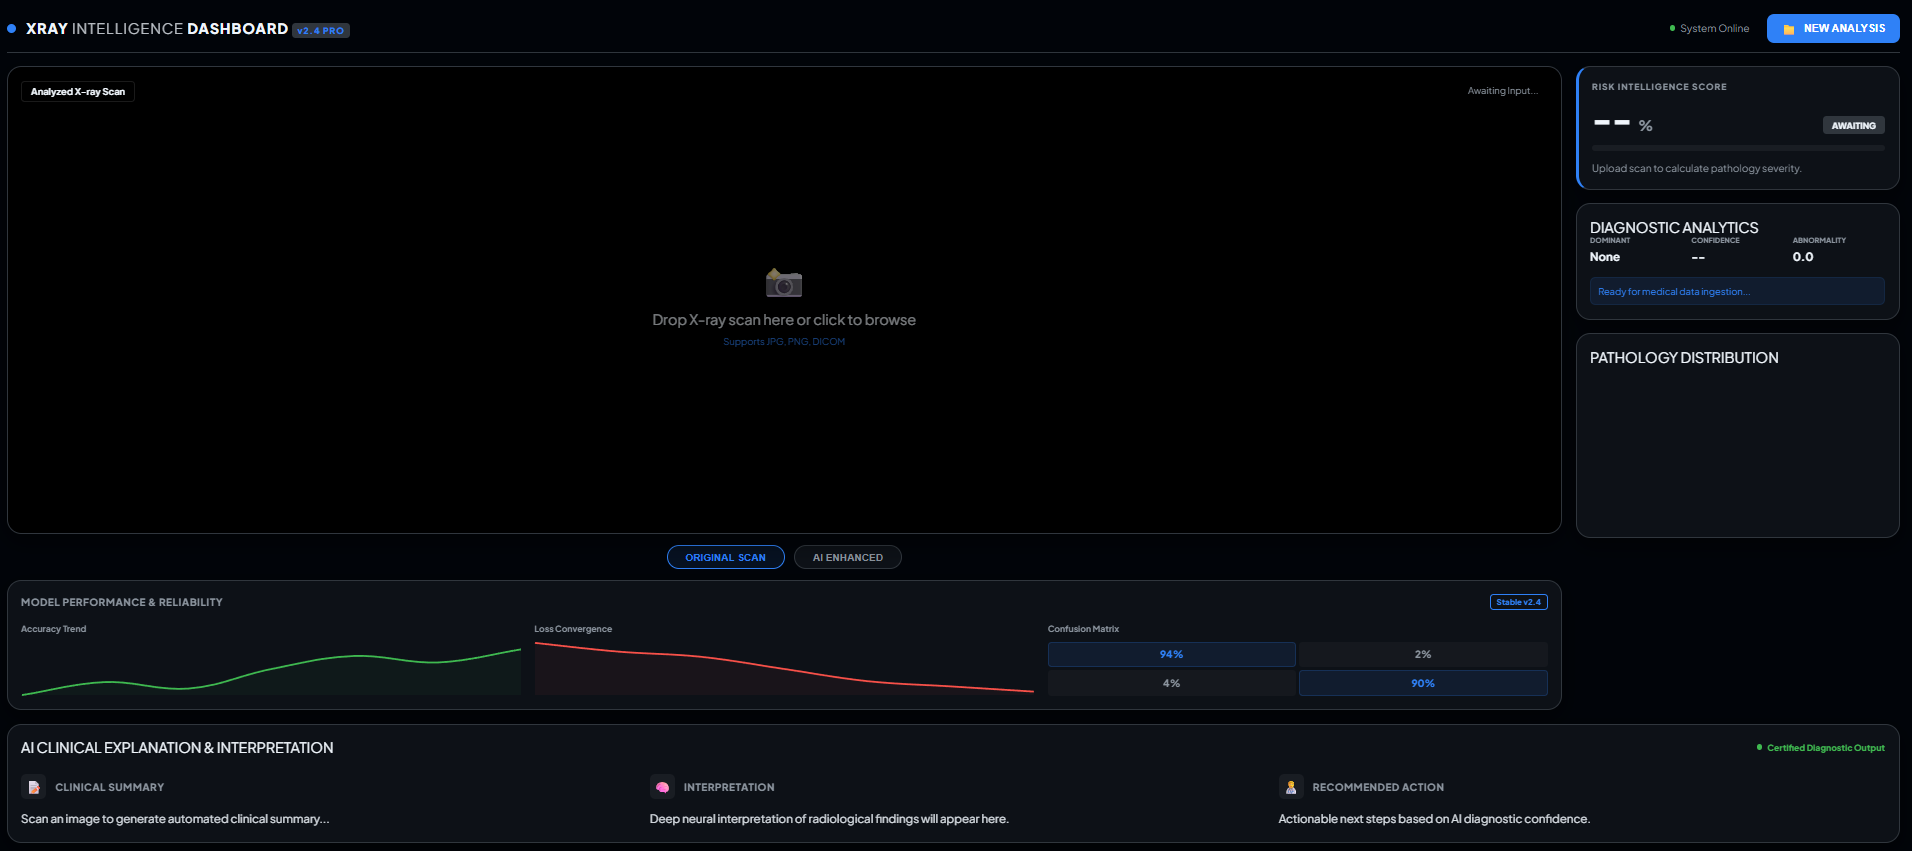
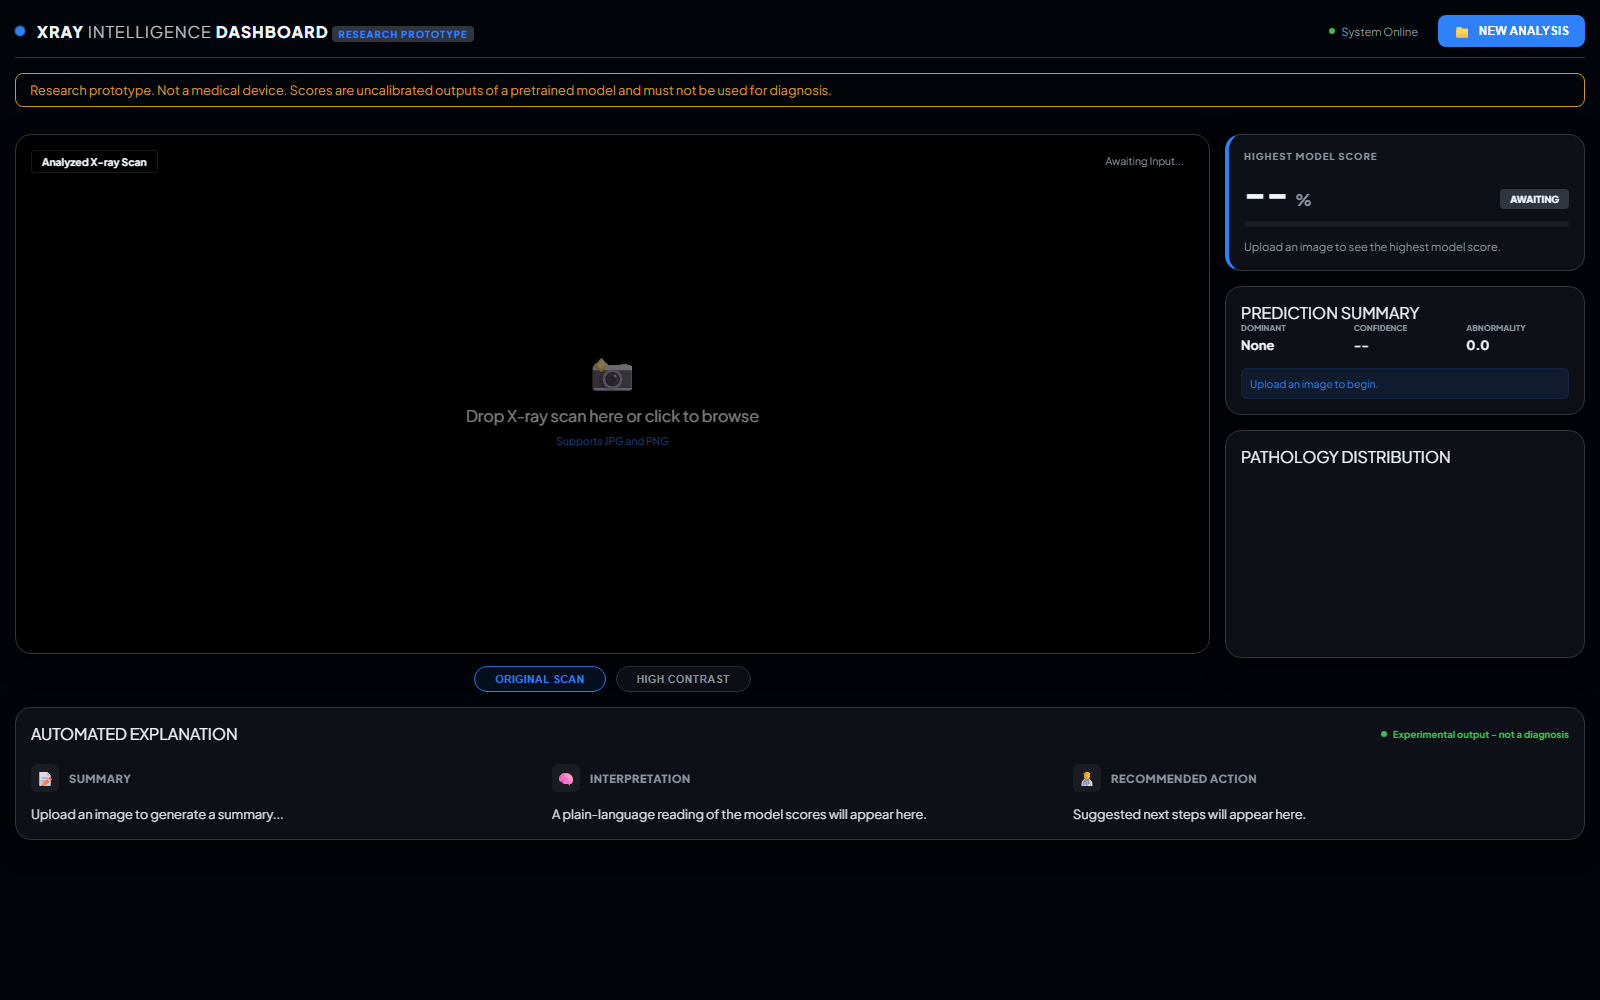
Remove hard-coded performance panel and diagnostic claims from the UI
The accuracy and loss curves and the confusion matrix were static numbers, not measurements of the model. Also drops the Certified Diagnostic Output and PRO labels, the unsupported DICOM hint, and wording that presented scores as clinical findings. Adds a research-use notice and refreshes the dashboard screenshot.

diff --git a/templates/index.html b/templates/index.html
@@ -3,10 +3,10 @@
 <head>
     <meta charset="UTF-8">
     <meta name="viewport" content="width=device-width, initial-scale=1.0">
-    <title>XRAY Intelligence Dashboard | Professional AI Diagnostics</title>
+    <title>Chest X-ray Analysis Dashboard (research prototype)</title>
     <link rel="stylesheet" href="/static/style.css">
     <link href="https://fonts.googleapis.com/css2?family=Plus+Jakarta+Sans:wght@300;400;500;600;700;800&display=swap" rel="stylesheet">
-    <script src="https://cdn.jsdelivr.net/npm/chart.js"></script>
+    <script src="https://cdn.jsdelivr.net/npm/chart.js@4.4.7"></script>
 </head>
 <body>
 
@@ -15,7 +15,7 @@
     <header class="top-bar">
         <div class="brand">
             <span class="pulse-icon"></span>
-            <h1>XRAY <span class="thin">INTELLIGENCE</span> DASHBOARD <span class="v-tag">v2.4 PRO</span></h1>
+            <h1>XRAY <span class="thin">INTELLIGENCE</span> DASHBOARD <span class="v-tag">RESEARCH PROTOTYPE</span></h1>
         </div>
         <div class="actions">
             <div class="system-status">
@@ -27,6 +27,8 @@
             <input type="file" id="fileInput" accept="image/*" hidden>
         </div>
     </header>
+
+    <div class="research-notice">Research prototype. Not a medical device. Scores are uncalibrated outputs of a pretrained model and must not be used for diagnosis.</div>
 
     <main class="main-content">
         <!-- Left Panel: Large Image -->
@@ -40,7 +42,7 @@
                     <div class="upload-area" id="dropZone">
                         <div class="upload-icon">📸</div>
                         <p>Drop X-ray scan here or click to browse</p>
-                        <span class="hint">Supports JPG, PNG, DICOM</span>
+                        <span class="hint">Supports JPG and PNG</span>
                     </div>
                 </div>
                 <div id="previewWrapper" class="preview-wrapper hidden">
@@ -54,7 +56,7 @@
                         <div class="loading-steps">
                             <span id="step1">Extracting Features...</span>
                             <span id="step2" class="dim">Neural Mapping...</span>
-                            <span id="step3" class="dim">Clinical Matching...</span>
+                            <span id="step3" class="dim">Summarising...</span>
                         </div>
                     </div>
                 </div>
@@ -62,34 +64,7 @@
             
             <div class="image-controls">
                 <button class="btn-toggle active" data-view="original">ORIGINAL SCAN</button>
-                <button class="btn-toggle" data-view="analysis">AI ENHANCED</button>
-            </div>
-
-            <!-- New Section: Model Performance (Portfolio) -->
-            <div class="performance-section card">
-                <div class="card-title-row">
-                    <h3>MODEL PERFORMANCE & RELIABILITY</h3>
-                    <span class="badge-outline">Stable v2.4</span>
-                </div>
-                <div class="performance-grid">
-                    <div class="perf-item">
-                        <label>Accuracy Trend</label>
-                        <div class="mini-chart"><canvas id="accuracyChart"></canvas></div>
-                    </div>
-                    <div class="perf-item">
-                        <label>Loss Convergence</label>
-                        <div class="mini-chart"><canvas id="lossChart"></canvas></div>
-                    </div>
-                    <div class="perf-item">
-                        <label>Confusion Matrix</label>
-                        <div class="matrix-viz">
-                            <div class="m-cell active" title="TP">94%</div>
-                            <div class="m-cell" title="FP">2%</div>
-                            <div class="m-cell" title="FN">4%</div>
-                            <div class="m-cell active" title="TN">90%</div>
-                        </div>
-                    </div>
-                </div>
+                <button class="btn-toggle" data-view="analysis">HIGH CONTRAST</button>
             </div>
         </section>
 
@@ -97,7 +72,7 @@
         <aside class="metrics-panel">
             <!-- Risk Intelligence Card -->
             <div class="card risk-card highlight-card">
-                <div class="card-label">RISK INTELLIGENCE SCORE</div>
+                <div class="card-label">HIGHEST MODEL SCORE</div>
                 <div class="risk-main">
                     <div class="risk-display">
                         <span id="riskValue">--</span>
@@ -108,12 +83,12 @@
                 <div class="progress-container">
                     <div id="riskProgress" class="progress-bar" style="width: 0%"></div>
                 </div>
-                <p id="riskExplanation" class="risk-explanation">Upload scan to calculate pathology severity.</p>
+                <p id="riskExplanation" class="risk-explanation">Upload an image to see the highest model score.</p>
             </div>
 
             <!-- Advanced Analytics Card (New) -->
             <div class="card analytics-card">
-                <div class="card-title">DIAGNOSTIC ANALYTICS</div>
+                <div class="card-title">PREDICTION SUMMARY</div>
                 <div class="analytics-metrics">
                     <div class="a-metric">
                         <span class="a-label">Dominant</span>
@@ -128,7 +103,7 @@
                         <span class="a-value" id="mAbnormality">0.0</span>
                     </div>
                 </div>
-                <div class="a-summary" id="aSummaryText">Ready for medical data ingestion...</div>
+                <div class="a-summary" id="aSummaryText">Upload an image to begin.</div>
             </div>
 
             <!-- Graph Card: Top Predictions (Improved) -->
@@ -148,30 +123,30 @@
     <footer class="bottom-section">
         <div class="card explanation-card">
             <div class="card-header-row">
-                <div class="card-title">AI CLINICAL EXPLANATION & INTERPRETATION</div>
-                <div class="clinical-sign">Certified Diagnostic Output</div>
+                <div class="card-title">AUTOMATED EXPLANATION</div>
+                <div class="clinical-sign">Experimental output - not a diagnosis</div>
             </div>
             <div class="explanation-grid">
                 <div class="exp-block">
                     <div class="exp-header">
                         <span class="exp-icon summary">📝</span>
-                        <h4>CLINICAL SUMMARY</h4>
+                        <h4>SUMMARY</h4>
                     </div>
-                    <div class="exp-content" id="expSummary">Scan an image to generate automated clinical summary...</div>
+                    <div class="exp-content" id="expSummary">Upload an image to generate a summary...</div>
                 </div>
                 <div class="exp-block">
                     <div class="exp-header">
                         <span class="exp-icon meaning">🧠</span>
                         <h4>INTERPRETATION</h4>
                     </div>
-                    <div class="exp-content" id="expMeaning">Deep neural interpretation of radiological findings will appear here.</div>
+                    <div class="exp-content" id="expMeaning">A plain-language reading of the model scores will appear here.</div>
                 </div>
                 <div class="exp-block">
                     <div class="exp-header">
                         <span class="exp-icon recommendation">👨⚕</span>
                         <h4>RECOMMENDED ACTION</h4>
                     </div>
-                    <div class="exp-content" id="expRecommendation">Actionable next steps based on AI diagnostic confidence.</div>
+                    <div class="exp-content" id="expRecommendation">Suggested next steps will appear here.</div>
                 </div>
             </div>
         </div>

diff --git a/static/script.js b/static/script.js
@@ -1,9 +1,6 @@
 let predictionChart;
-let accuracyChart;
-let lossChart;
 
 document.addEventListener('DOMContentLoaded', () => {
-    initPerformanceCharts();
     setupEventListeners();
 });
 
@@ -83,7 +80,7 @@ async function analyzeXray(file) {
         }
     } catch (err) {
         console.error(err);
-        alert('Diagnostic System Offline');
+        alert('Could not reach the analysis server.');
     } finally {
         setTimeout(() => {
             loading.classList.add('hidden');
@@ -112,20 +109,20 @@ function updateDashboard(data) {
     metricsPanel.classList.remove('critical', 'attention', 'normal');
     if (data.status === 'CRITICAL') {
         metricsPanel.classList.add('critical');
-        riskExplanation.innerText = "High-confidence detection of critical pathology. Immediate clinical intervention required.";
+        riskExplanation.innerText = "The highest model score is above 70%. This is a model output, not a diagnosis: a qualified clinician must review the image.";
     } else if (data.status === 'NEEDS ATTENTION') {
         metricsPanel.classList.add('attention');
-        riskExplanation.innerText = "Secondary indicators detected. Correlation with patient history and symptoms advised.";
+        riskExplanation.innerText = "The highest model score is between 40% and 70%. This is a model output, not a diagnosis.";
     } else {
         metricsPanel.classList.add('normal');
-        riskExplanation.innerText = "Neural analysis indicates physiological baseline within normal radiological limits.";
+        riskExplanation.innerText = "No pathology score is above 40%. This does not rule out disease.";
     }
 
     // Analytics Card
     document.getElementById('dominantCond').innerText = topPred.disease;
     document.getElementById('confConsistency').innerText = riskScore > 85 ? "High" : riskScore > 60 ? "Moderate" : "Low";
     document.getElementById('mAbnormality').innerText = (riskScore / 10).toFixed(1);
-    document.getElementById('aSummaryText').innerText = `AI model has ${riskScore}% confidence in ${topPred.disease} detection. Findings are consistent with radiological patterns.`;
+    document.getElementById('aSummaryText').innerText = `Highest model score: ${topPred.disease} at ${riskScore}%. Scores are uncalibrated outputs of a pretrained model.`;
 
     // Predictions List & Chart
     updatePredictionsUI(data);
@@ -188,36 +185,5 @@ function updateChart(labels, scores) {
                 y: { grid: { display: false }, ticks: { color: '#f0f6fc', font: { size: 9 } } }
             }
         }
-    });
-}
-
-function initPerformanceCharts() {
-    const ctxAcc = document.getElementById('accuracyChart').getContext('2d');
-    const ctxLoss = document.getElementById('lossChart').getContext('2d');
-
-    const commonOptions = {
-        responsive: true,
-        maintainAspectRatio: false,
-        plugins: { legend: { display: false } },
-        scales: { x: { display: false }, y: { display: false } },
-        elements: { point: { radius: 0 }, line: { tension: 0.4, borderWidth: 2 } }
-    };
-
-    accuracyChart = new Chart(ctxAcc, {
-        type: 'line',
-        data: {
-            labels: [1,2,3,4,5,6,7],
-            datasets: [{ data: [88, 90, 89, 92, 94, 93, 95], borderColor: '#3fb950', fill: true, backgroundColor: 'rgba(63, 185, 80, 0.05)' }]
-        },
-        options: commonOptions
-    });
-
-    lossChart = new Chart(ctxLoss, {
-        type: 'line',
-        data: {
-            labels: [1,2,3,4,5,6,7],
-            datasets: [{ data: [0.4, 0.35, 0.32, 0.25, 0.18, 0.15, 0.12], borderColor: '#f85149', fill: true, backgroundColor: 'rgba(248, 81, 73, 0.05)' }]
-        },
-        options: commonOptions
     });
 }

diff --git a/static/style.css b/static/style.css
@@ -248,3 +248,12 @@ body {
 .loader { width: 40px; height: 40px; border: 3px solid var(--accent-blue); border-bottom-color: transparent; border-radius: 50%; animation: rotation 1s linear infinite; margin: 0 auto 15px; }
 .loading-steps { display: flex; flex-direction: column; gap: 5px; font-size: 0.7rem; color: var(--text-primary); }
 @keyframes rotation { 0% { transform: rotate(0deg); } 100% { transform: rotate(360deg); } }
+
+.research-notice {
+    margin: 0 0 12px;
+    padding: 8px 14px;
+    border: 1px solid #d29922;
+    border-radius: 8px;
+    color: #d29922;
+    font-size: 0.8rem;
+}
